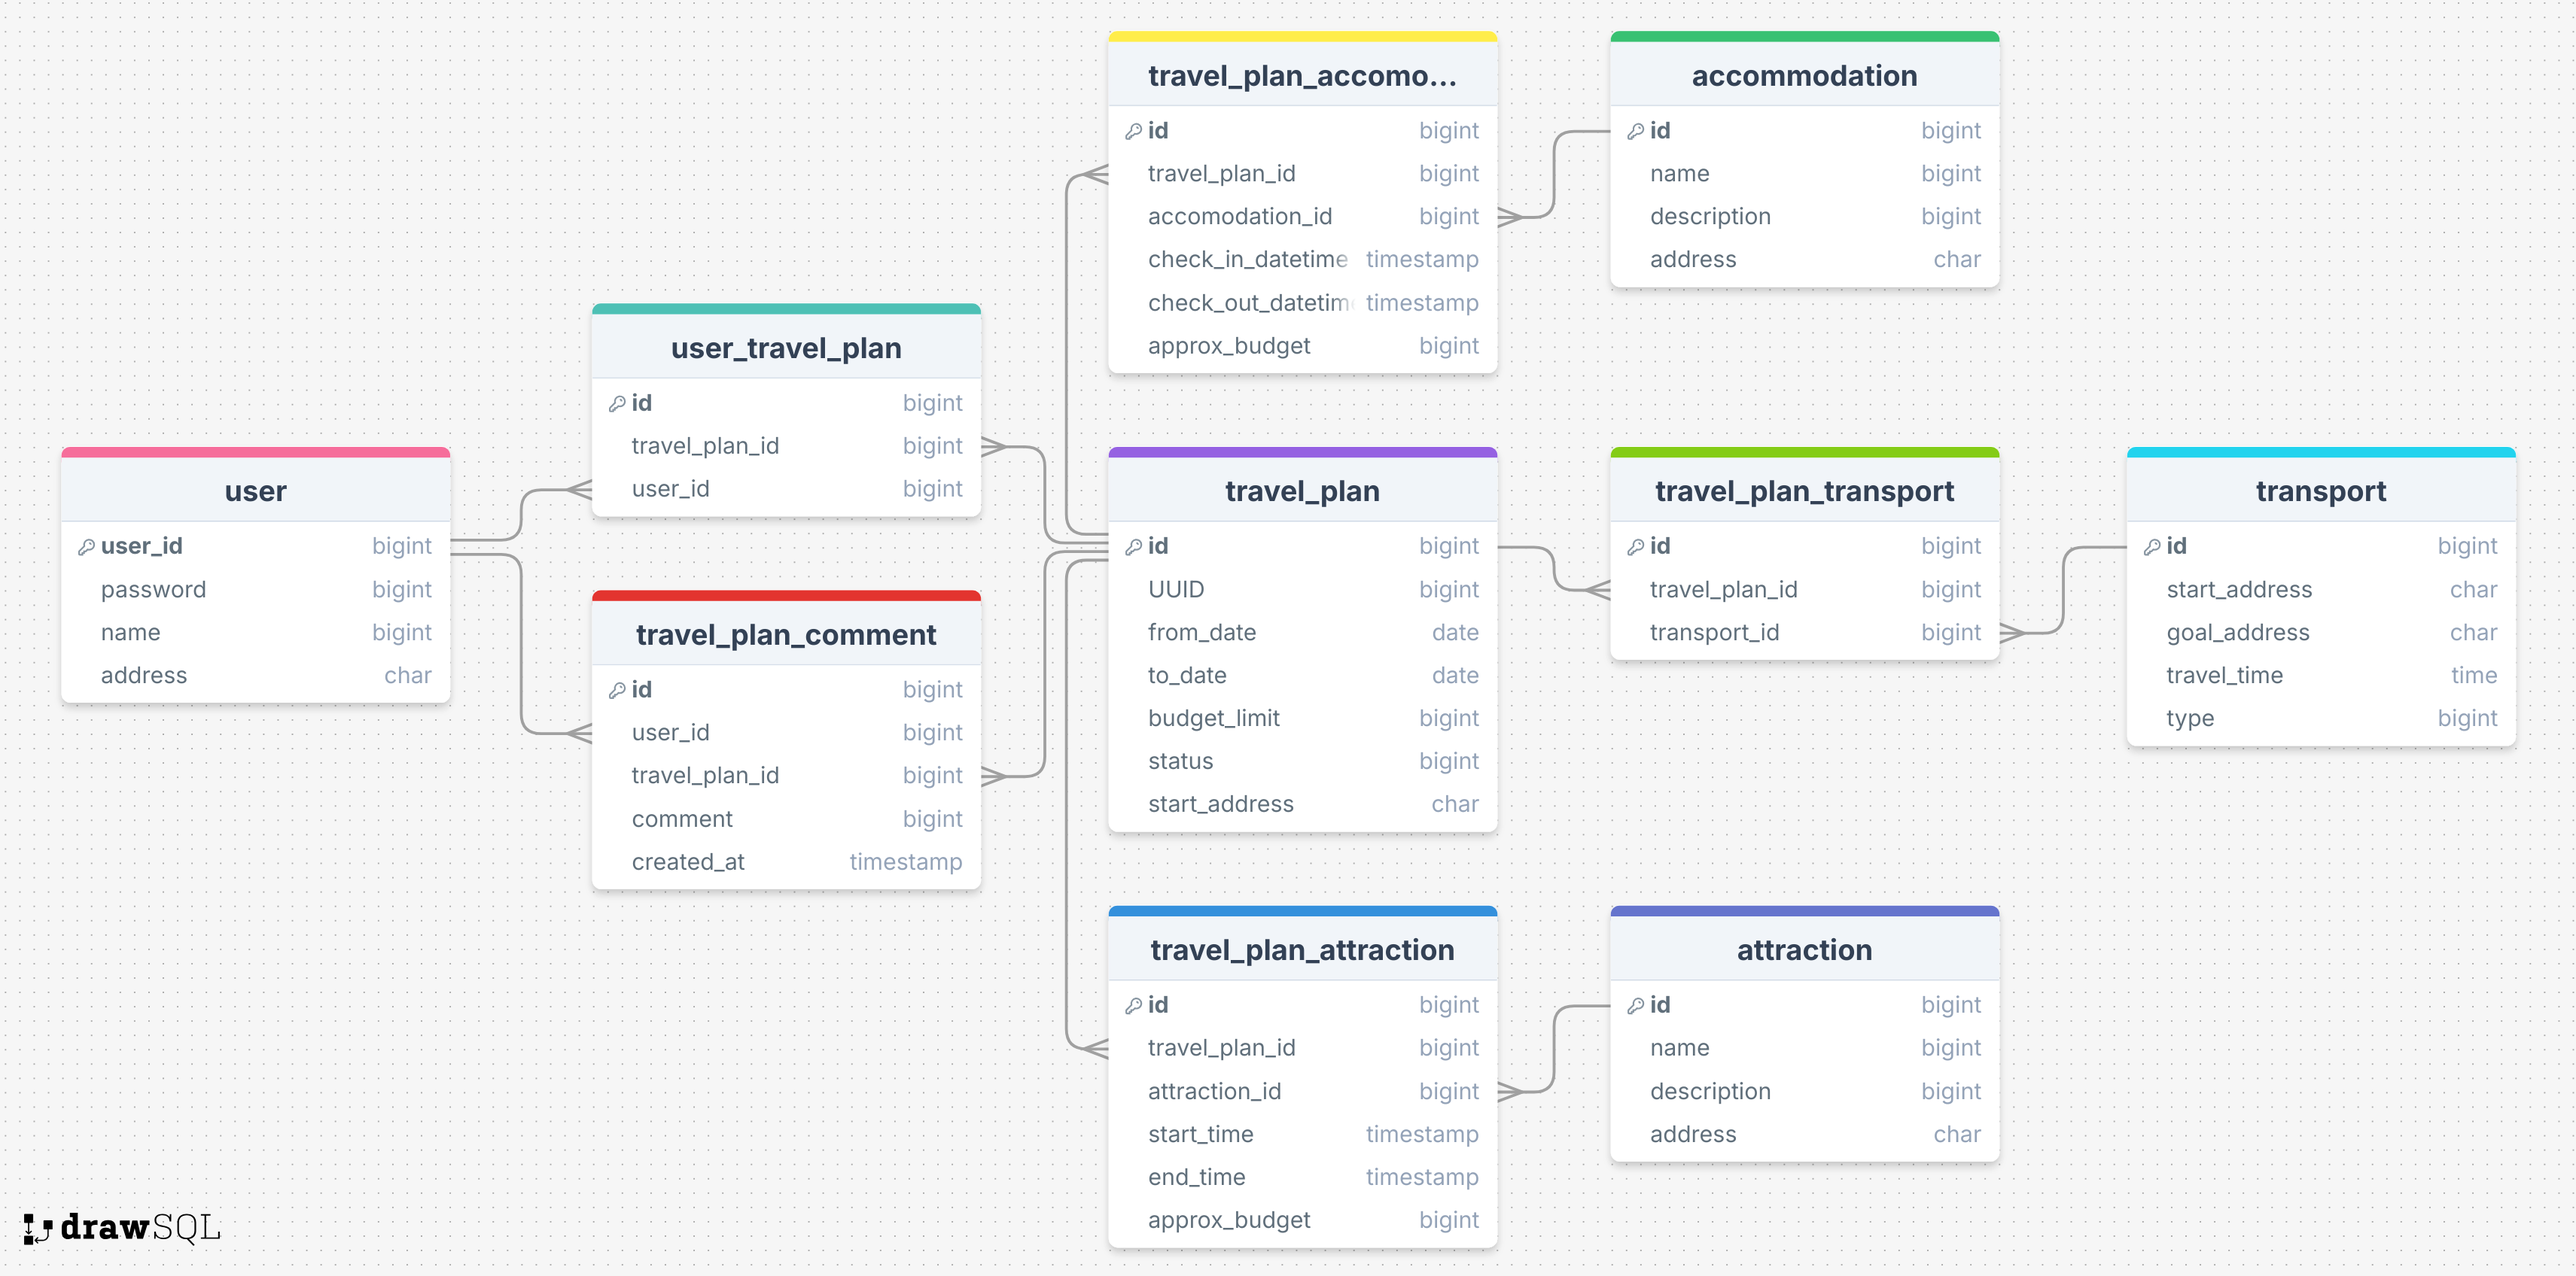
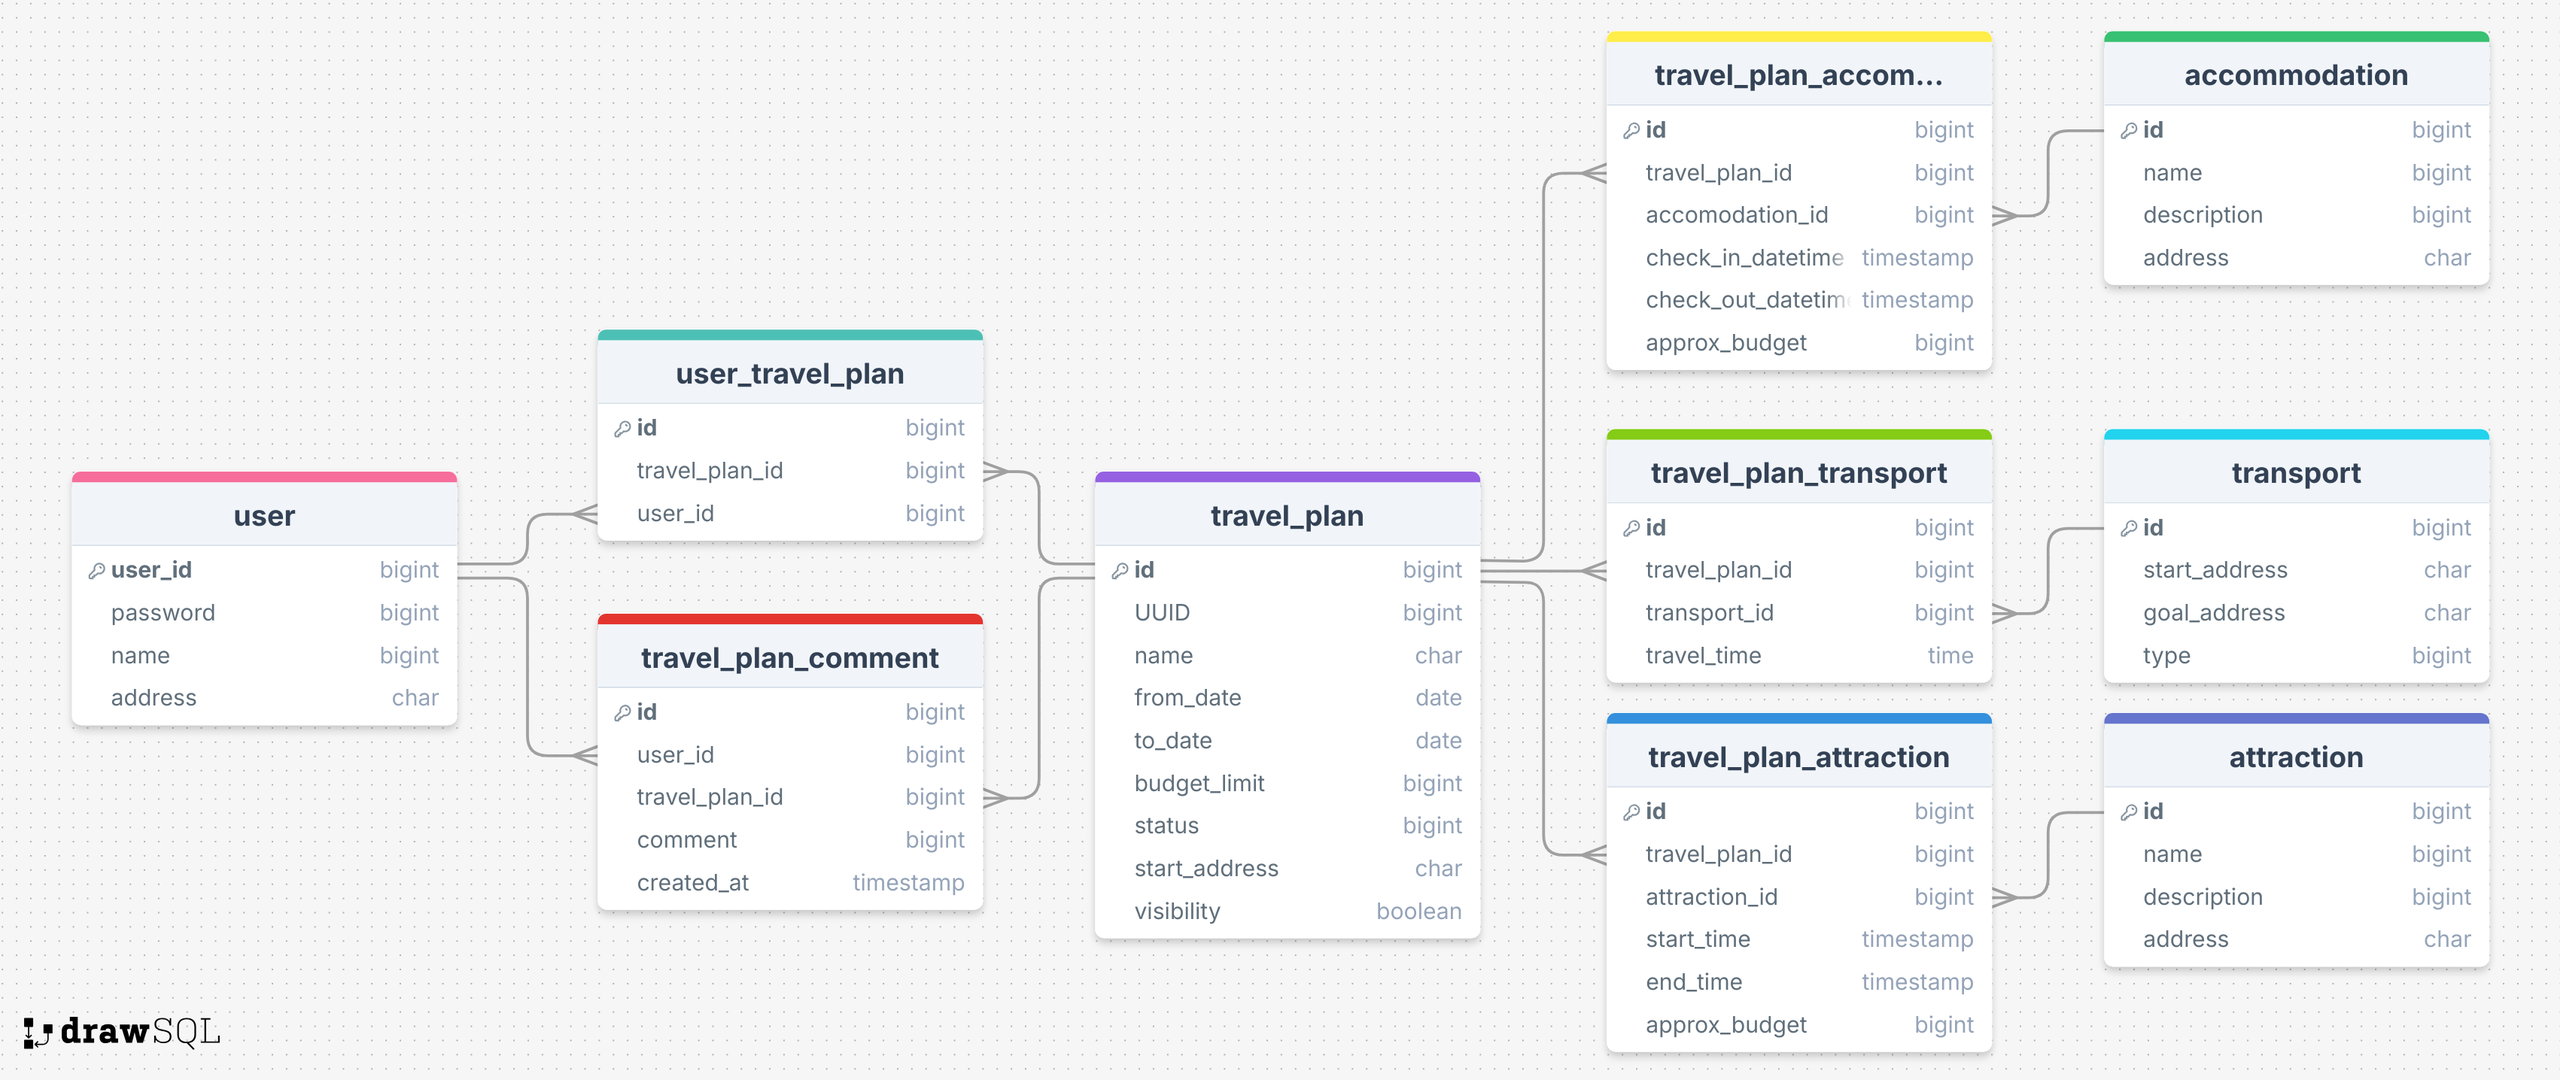
20250618_중간저장

diff --git a/KDT_class/Day06_Array/src/Quiz03.java b/KDT_class/Day06_Array/src/Quiz03.java
@@ -2,12 +2,22 @@ public class Quiz03 {
     public static void main(String[] args) {
         int[] arr = new int[]{21, 15, 3, 9, 53, 2, 54, 1, 9, 5, 23, 53, 34, 54};
 
-        for(int i = 0; i < arr.length; i++){
-            for(int j = i + 1; j < arr.length; j++){
-                if(arr[i] > arr[j]){
-                    int temp = arr[i];
-                    arr[i] = arr[j];
-                    arr[j] = temp;
+//        for(int i = 0; i < arr.length; i++){
+//            for(int j = i + 1; j < arr.length; j++){
+//                if(arr[i] > arr[j]){
+//                    int temp = arr[i];
+//                    arr[i] = arr[j];
+//                    arr[j] = temp;
+//                }
+//            }
+//        }
+
+        for(int i = 1; i < arr.length; i++){
+            for(int j = 0; j < arr.length - i; j++){
+                if(arr[j] > arr[j+1]) {
+                    int temp = arr[j];
+                    arr[j] = arr[j+1];
+                    arr[j+1] = temp;
                 }
             }
         }

diff --git a/trivista/trivista_backend/src/main/java/com/trivista_backend/entity/TravelPlanTransportEntity.java b/trivista/trivista_backend/src/main/java/com/trivista_backend/entity/TravelPlanTransportEntity.java
@@ -3,6 +3,8 @@ package com.trivista_backend.entity;
 import jakarta.persistence.*;
 import lombok.*;
 
+import java.time.LocalTime;
+
 @Entity
 @Getter
 @Setter
@@ -22,4 +24,7 @@ public class TravelPlanTransportEntity {
     @ManyToOne(fetch = FetchType.EAGER)
     @JoinColumn(name = "transport_id")
     private TransportEntity transport;
+
+    @Column
+    private LocalTime travel_time;
 }

diff --git a/trivista/trivista_backend/src/main/java/com/trivista_backend/entity/TransportEntity.java b/trivista/trivista_backend/src/main/java/com/trivista_backend/entity/TransportEntity.java
@@ -3,8 +3,6 @@ package com.trivista_backend.entity;
 import jakarta.persistence.*;
 import lombok.*;
 
-import java.time.LocalTime;
-
 @Entity
 @Getter
 @Setter
@@ -22,9 +20,6 @@ public class TransportEntity {
 
     @Column
     private String goal_address;
-
-    @Column
-    private LocalTime travel_time;
 
     @Column
     private String type;

diff --git a/trivista/trivista_backend/src/main/java/com/trivista_backend/entity/TravelPlanEntity.java b/trivista/trivista_backend/src/main/java/com/trivista_backend/entity/TravelPlanEntity.java
@@ -38,6 +38,7 @@ public class TravelPlanEntity {
     @Column
     private int status;
     // 여행일정의 상태 표시
+    // TODO: enum, converter 작성
     // 1: 계획중, 2: 계획완료, 3: 계획종료
 
     @Column(nullable = false)
